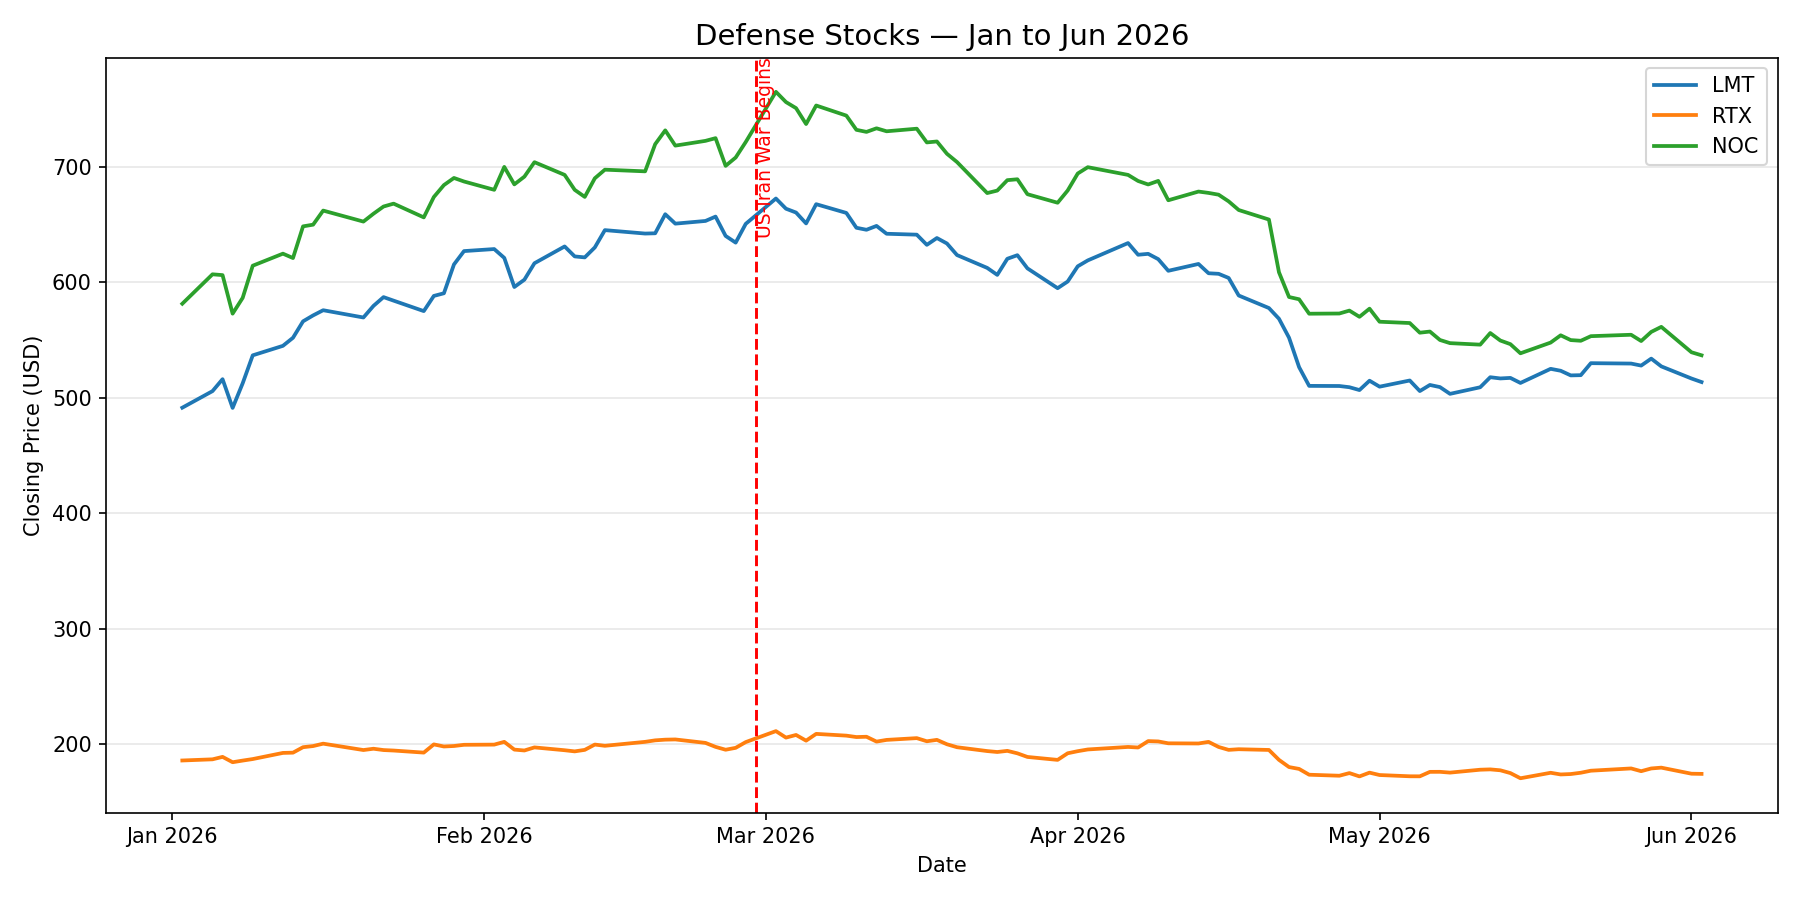
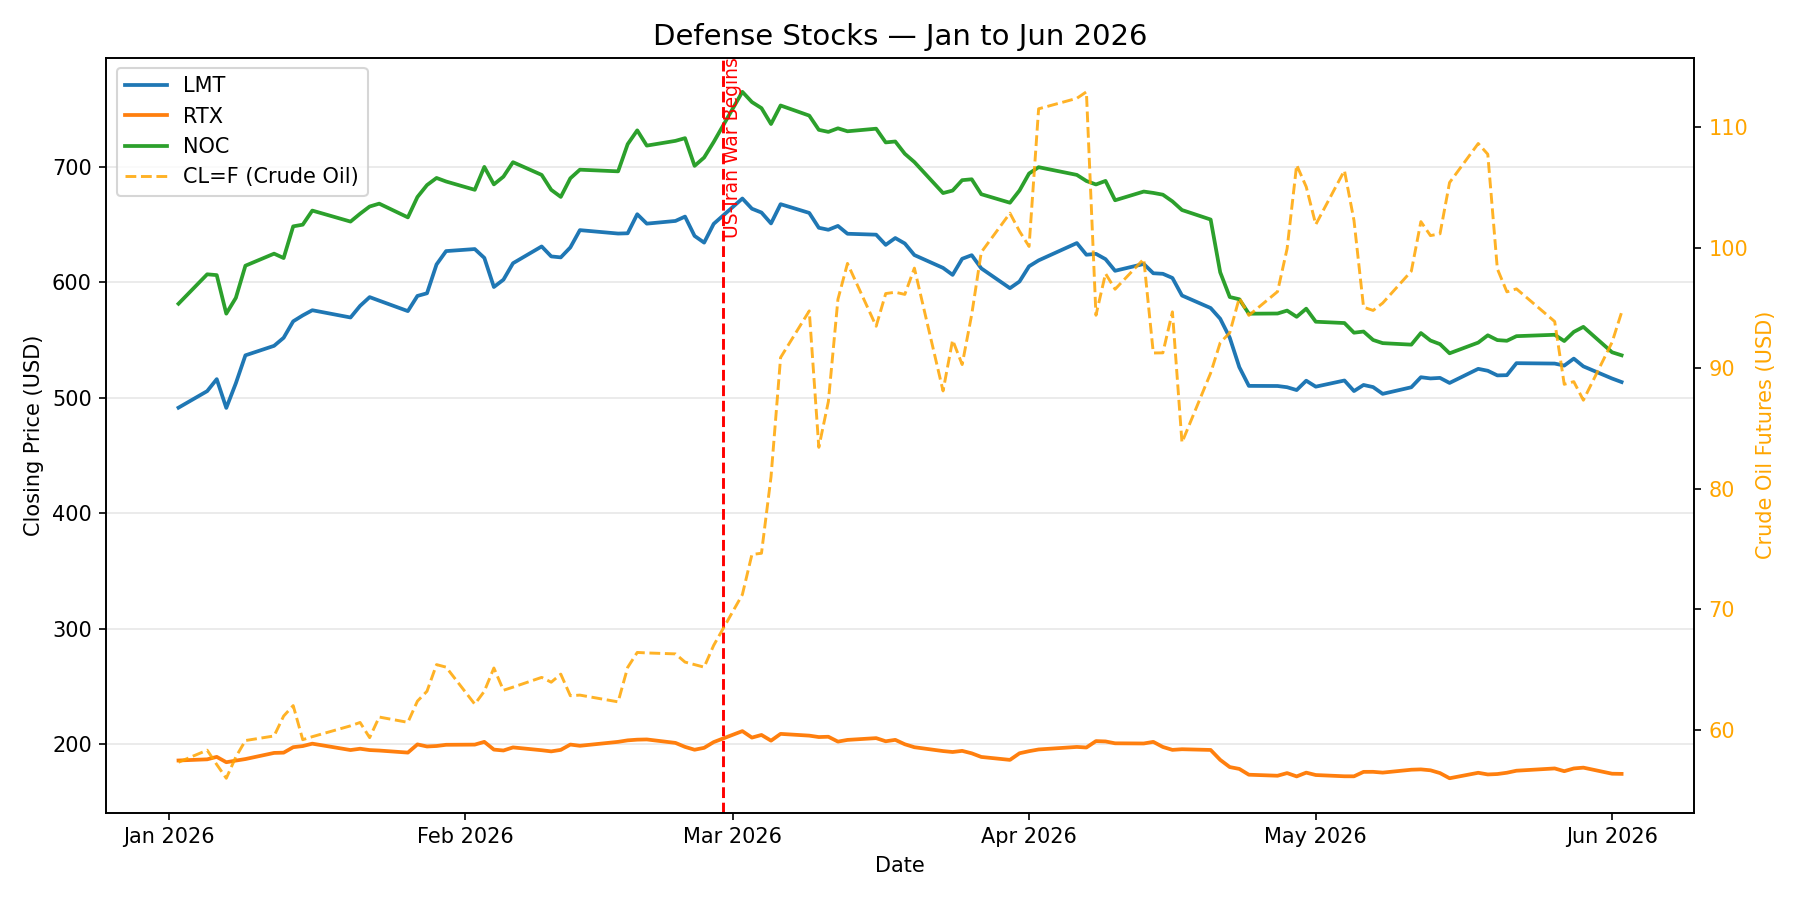
feat: add crude oil second y-axis to both charts

diff --git a/charts/plot_stocks.py b/charts/plot_stocks.py
@@ -25,7 +25,15 @@ for group in GROUPS.values():
     for ticker in group["tickers"]:
         ax.plot(df.index, df[ticker], linewidth=1.8, label=ticker)
 
+    ax2 = ax.twinx()
+    ax2.plot(df.index, df["CL=F"], color="orange", linewidth=1.4,
+             linestyle="--", label="CL=F (Crude Oil)", alpha=0.85)
+    ax2.set_ylabel("Crude Oil Futures (USD)", color="orange")
+    ax2.tick_params(axis="y", labelcolor="orange")
+
     ax.axvline(WAR_DATE, color="red", linestyle="--", linewidth=1.4)
+    # place label just inside the top of the left axis after autoscale
+    ax.draw(fig.canvas.get_renderer())
     ax.text(
         WAR_DATE,
         ax.get_ylim()[1],
@@ -41,7 +49,11 @@ for group in GROUPS.values():
     ax.set_ylabel("Closing Price (USD)")
     ax.xaxis.set_major_formatter(mdates.DateFormatter("%b %Y"))
     ax.xaxis.set_major_locator(mdates.MonthLocator())
-    ax.legend()
+
+    lines1, labels1 = ax.get_legend_handles_labels()
+    lines2, labels2 = ax2.get_legend_handles_labels()
+    ax.legend(lines1 + lines2, labels1 + labels2, loc="upper left")
+
     ax.grid(axis="y", alpha=0.3)
     fig.tight_layout()
     fig.savefig(group["outfile"], dpi=150)
